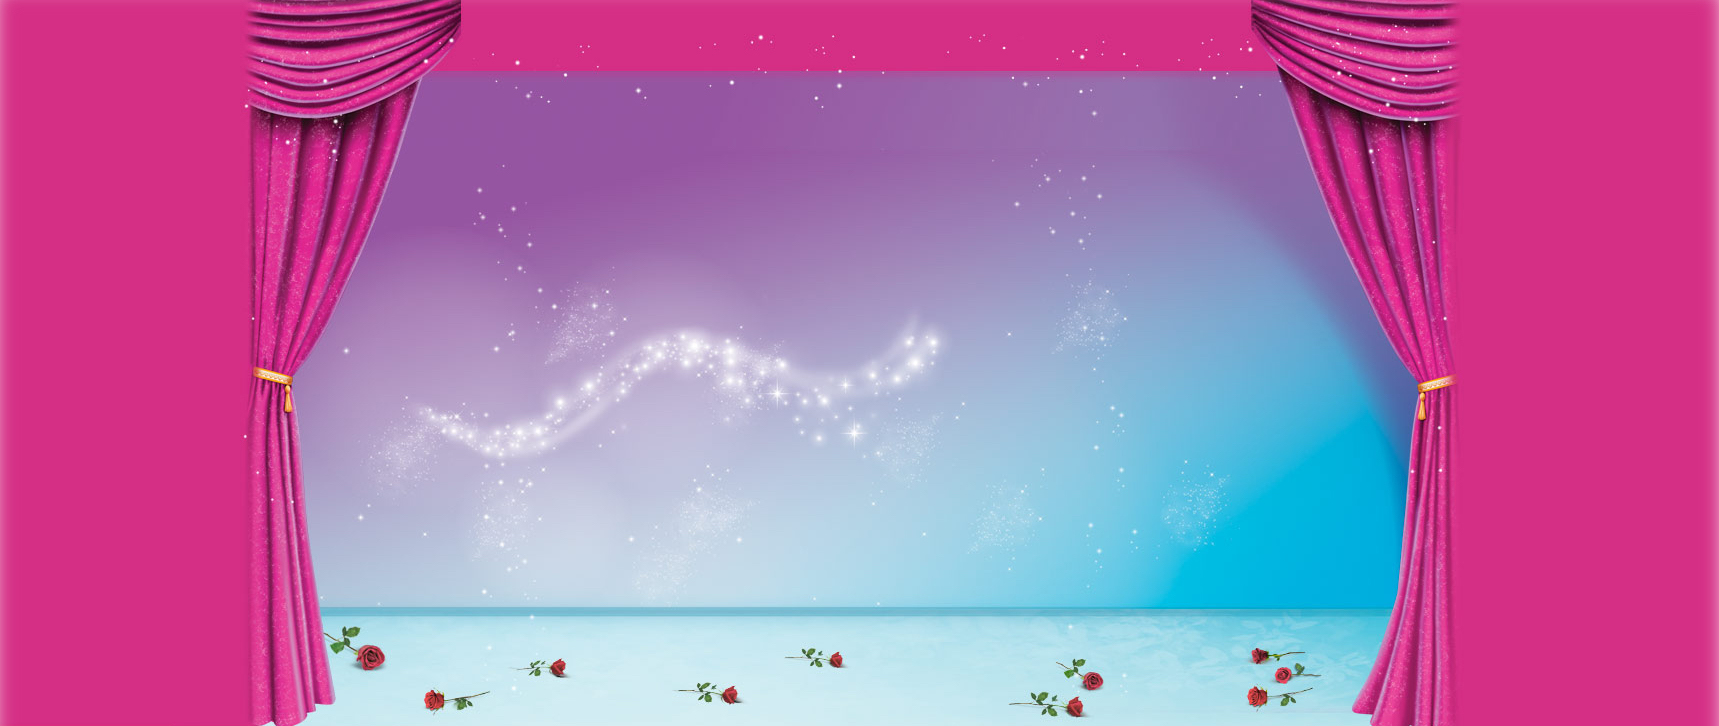
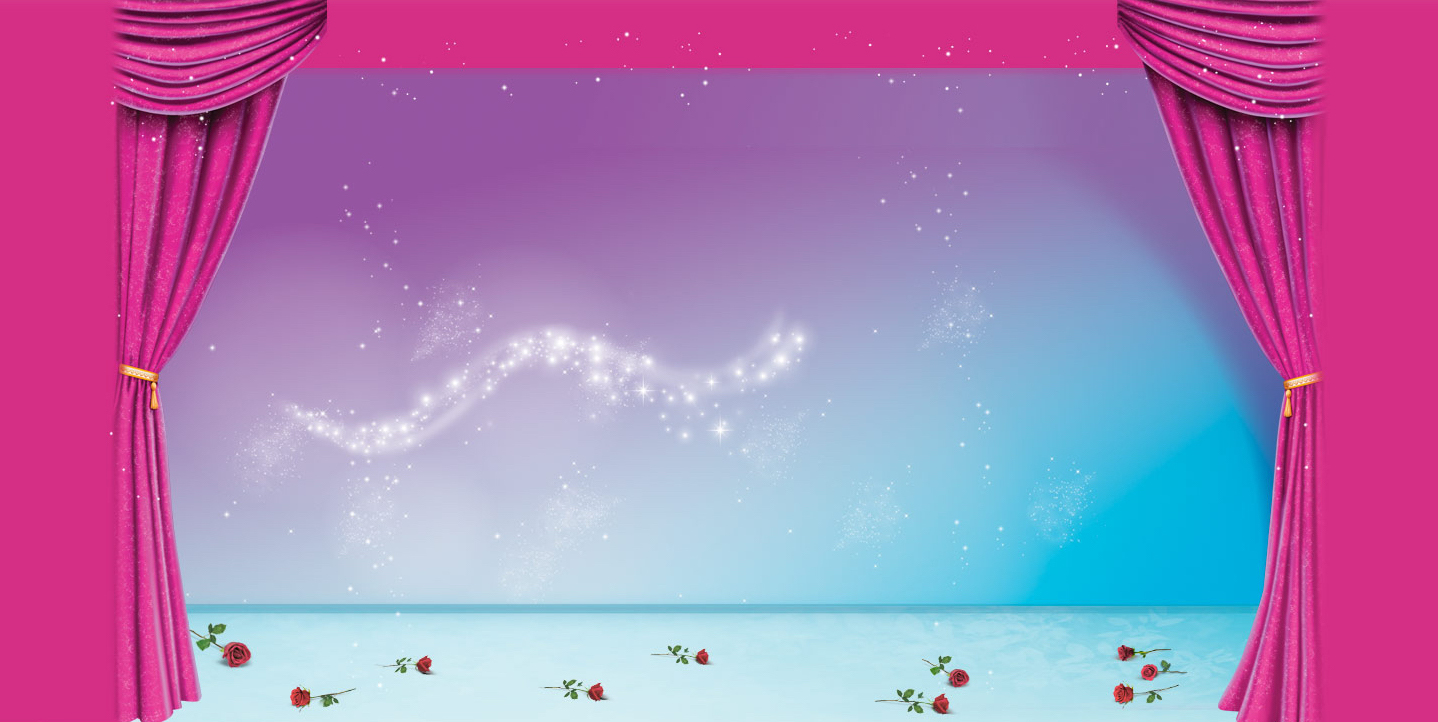
detalles header css

diff --git a/css/styles.css b/css/styles.css
@@ -2,7 +2,7 @@
 
 header{
     background-image: URL("../img/Background-Barbie-Wallpaper.jpg");
-    background-size: cover;
+    background-size: cover all;
     background-repeat: no-repeat;
     background-position: center;
 }
@@ -37,7 +37,6 @@ body{
     margin: 0 auto;
     align-self: center;
     text-align: center;
-    margin-top: 50px;
 }
 
 .titulo{
@@ -55,7 +54,6 @@ body{
 
 h1{
     margin: 0;
-    margin-top: 20px;
 
 }
 
@@ -64,7 +62,6 @@ h1{
 }
 
 .barra{
-    margin-top: 10px;
     text-align: center;
 
 }
@@ -91,7 +88,8 @@ h1{
     flex-direction: row;
     justify-content: space-between;
     align-items: center;
-    margin-top: 40px;
+    margin-top: 30px;
+    margin-right: 10px;
 }
 
 
@@ -102,4 +100,10 @@ h1{
     background-color: rgb(146, 9, 171);
     font-size: 30px;
     padding: 10px;
+    box-sizing: border-box;
+    width: 180px;
+    height: 50px;
+    padding: 15px;
+    margin-right: 10px;
+    margin-left: 10px;
 }

diff --git a/index.html b/index.html
@@ -22,7 +22,7 @@
             </button>
     
             <button class="login">
-                <a class="login-font" href="./login.html">Loguearse</a>
+                <a class="login-font" href="./login.html">Ingresar</a>
             </button>
             </div>
             
